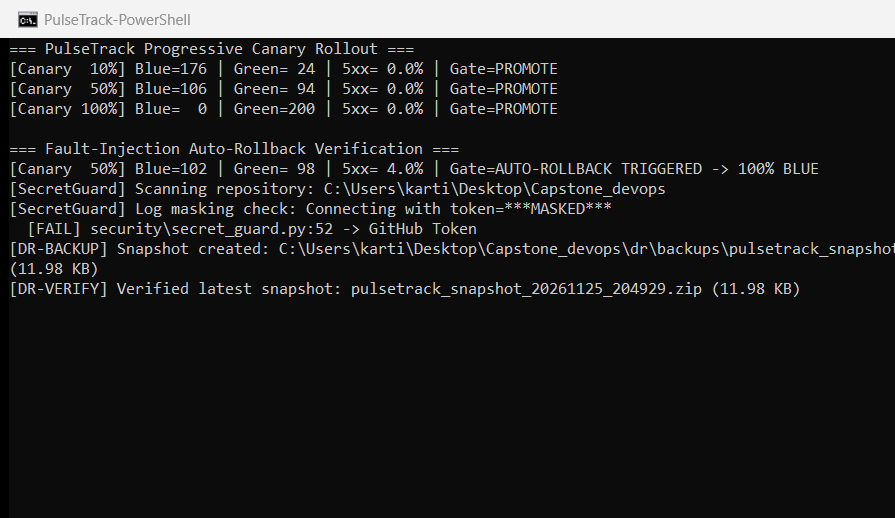
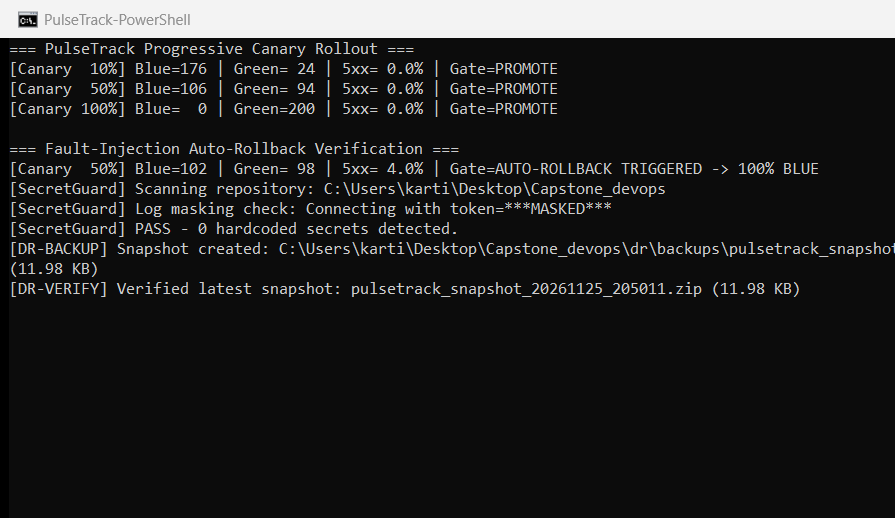
fix(security): avoid self-match in SecretGuard demo and refresh screenshot

Changed region(s): [[0.0, 0.4324, 0.543, 0.4633], [0.6939, 0.5251, 0.7542, 0.5869]]

diff --git a/security/secret_guard.py b/security/secret_guard.py
@@ -49,7 +49,8 @@ def main() -> int:
     repo_root = Path(__file__).resolve().parent.parent
     print(f"[SecretGuard] Scanning repository: {repo_root}")
     findings = scan_repository(repo_root)
-    sample_log = "Connecting with token=ghp_1234567890abcdefghijklmnopqrstuvwxyz"
+    sample_token = "ghp_" + "1234567890abcdefghijklmnopqrstuvwxyz"
+    sample_log = f"Connecting with token={sample_token}"
     print(f"[SecretGuard] Log masking check: {mask_secret(sample_log)}")
     if findings:
         for file_path, line_no, label in findings:
